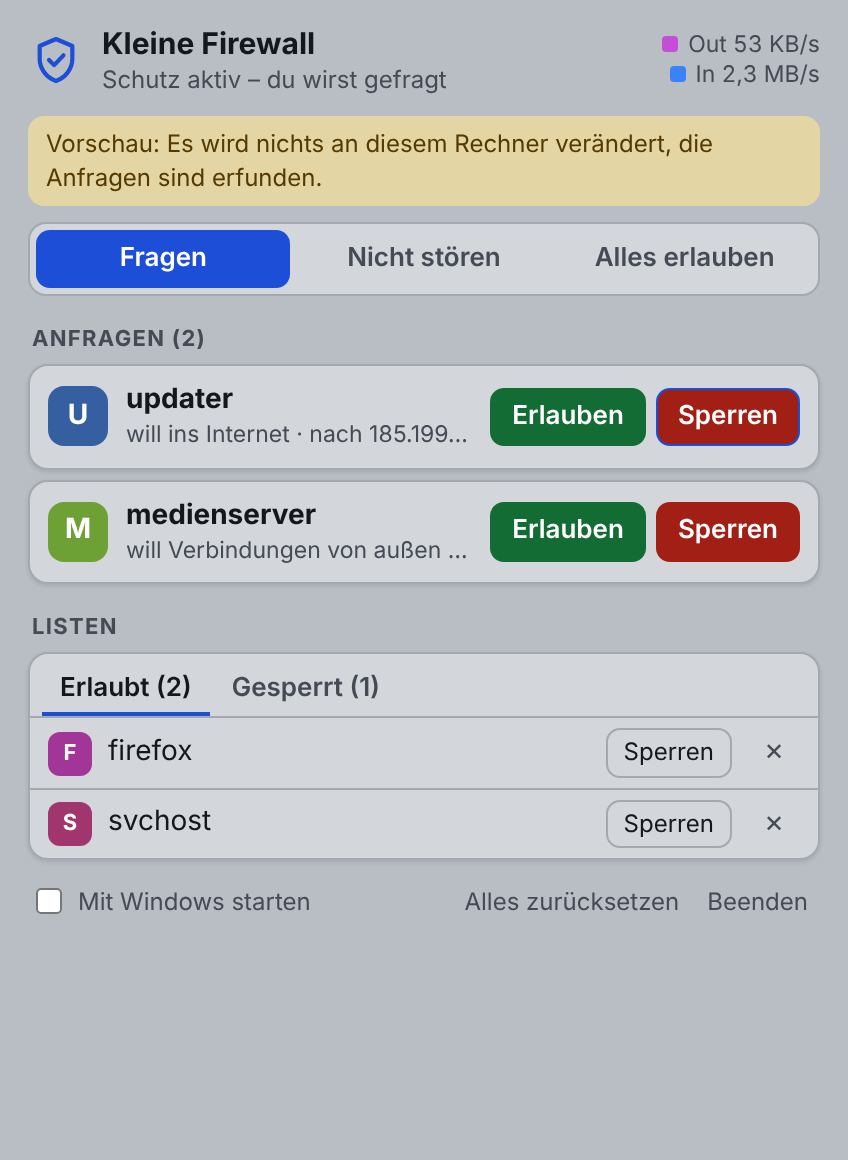
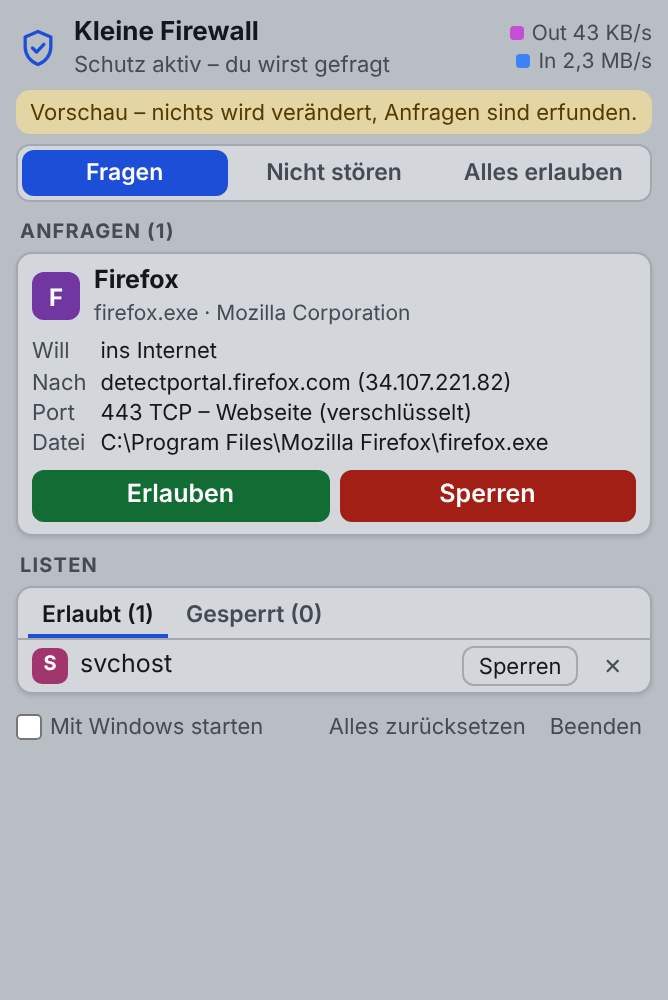
Kleineres Fenster, mehr Angaben in der Anfrage
Claude-Session: https://claude.ai/code/session_01V6giJq9DfFc1NtfWN4y38g

diff --git a/kleinefirewall_windows.py b/kleinefirewall_windows.py
@@ -17,6 +17,7 @@ import ntpath
 import os
 import platform
 import secrets
+import socket
 import string
 import subprocess
 import sys
@@ -184,6 +185,47 @@ class WinSystem:
         self.last_record = max(self.last_record, best[1])
         return list(reversed(best[2]))  # aelteste zuerst
 
+    def file_info(self, path):
+        """Hersteller und Beschreibung, wie sie in der Programmdatei hinterlegt sind."""
+        try:
+            v = ctypes.windll.version
+            size = v.GetFileVersionInfoSizeW(path, None)
+            if not size:
+                return {}
+            buf = ctypes.create_string_buffer(size)
+            if not v.GetFileVersionInfoW(path, 0, size, buf):
+                return {}
+            ptr, length = ctypes.c_void_p(), ctypes.c_uint()
+
+            def query(key):
+                ok = v.VerQueryValueW(buf, key, ctypes.byref(ptr), ctypes.byref(length))
+                return (ptr.value, length.value) if ok and ptr.value and length.value else (None, 0)
+
+            langs = []
+            addr, _ = query("\\VarFileInfo\\Translation")
+            if addr:
+                pair = (ctypes.c_ushort * 2).from_address(addr)
+                langs.append("%04x%04x" % (pair[0], pair[1]))
+            langs += ["040904b0", "040904e4", "040704b0", "000004b0"]
+            out = {}
+            for field, name in (("company", "CompanyName"), ("desc", "FileDescription")):
+                for lang in langs:
+                    addr, n = query(f"\\StringFileInfo\\{lang}\\{name}")
+                    if addr:
+                        text = ctypes.wstring_at(addr, n).split("\0")[0].strip()
+                        if text:
+                            out[field] = text[:80]
+                            break
+            return out
+        except Exception:
+            return {}
+
+    def host_name(self, addr):
+        try:
+            return socket.gethostbyaddr(addr)[0]
+        except (OSError, UnicodeError):
+            return ""
+
     # -- Autostart
     def autostart(self):
         return self.cmd(["schtasks", "/query", "/tn", TASK], check=False)[0] == 0
@@ -235,6 +277,14 @@ class DemoSystem:
     def set_autostart(self, on): self._auto = on
     def reset(self, paths): pass
 
+    def file_info(self, path):
+        return {"firefox.exe": {"company": "Mozilla Corporation", "desc": "Firefox"},
+                "spotify.exe": {"company": "Spotify Ltd", "desc": "Spotify"},
+                "medienserver.exe": {"company": "Beispiel GmbH", "desc": "Medienserver"}}.get(ntpath.basename(path).lower(), {})
+
+    def host_name(self, addr):
+        return {"34.107.221.82": "detectportal.firefox.com", "35.186.224.25": "ap.spotify.com"}.get(addr, "")
+
     def read_events(self):
         out = []
         while self.sent < len(self.SCRIPT) and time.time() - self.start >= self.SCRIPT[self.sent][0]:
@@ -253,6 +303,7 @@ class Guard:
         self.url = url
         self.lock = threading.RLock()
         self.pending = {}        # key -> Anfrage
+        self.hosts = {}          # IP-Adresse -> Name der Gegenstelle
         self.error = ""
         self.tray_error = ""
         self.net = None          # aktueller Datenverkehr fuer die Anzeige
@@ -336,13 +387,25 @@ class Guard:
             item = self.pending.get(key)
             if item is None:
                 item = self.pending[key] = {"path": e["path"], "name": nice_name(e["path"]), "dirs": [],
-                                            "count": 0, "first": time.time()}
+                                            "count": 0, "first": time.time(), **self.sys.file_info(e["path"])}
                 fresh = item["name"]
             if e["dir"] not in item["dirs"]:
                 item["dirs"].append(e["dir"])
                 fresh = item["name"]
-            item.update(count=item["count"] + 1, addr=e["addr"], port=e["port"], proto=e["proto"], dir=e["dir"])
+            item.update(count=item["count"] + 1, addr=e["addr"], port=e["port"], proto=e["proto"], dir=e["dir"],
+                        host=self.hosts.get(e["addr"], ""))
+            if e["addr"] and e["addr"] not in self.hosts:
+                self.hosts[e["addr"]] = ""
+                threading.Thread(target=self._lookup, args=(e["addr"],), daemon=True).start()
         return fresh
+
+    def _lookup(self, addr):
+        name = self.sys.host_name(addr)
+        with self.lock:
+            self.hosts[addr] = name
+            for item in self.pending.values():
+                if item.get("addr") == addr:
+                    item["host"] = name
 
     def watch(self):
         while not self.stop.wait(2):
@@ -382,67 +445,71 @@ PAGE = r"""<!doctype html>
 @media (prefers-color-scheme:dark){:root{--bg:#11141a;--card:#1a1f28;--text:#e9ecf2;--muted:#98a2b3;--line:#2b3240;
 --accent:#6ea0ff;--accentbg:#1c2a4a;--ok:#62d394;--okbg:#153324;--bad:#ff8f85;--badbg:#3a1b19;--warnbg:#3a2f12;--warn:#f2c661;--shadow:none}}
 *{box-sizing:border-box}
-body{margin:0;background:var(--bg);color:var(--text);font:14px/1.35 system-ui,-apple-system,"Segoe UI",sans-serif}
-main{max-width:420px;margin:0 auto;padding:12px 12px 16px}
-header{display:flex;align-items:center;gap:9px;margin-bottom:10px}
+body{margin:0;background:var(--bg);color:var(--text);font:12.5px/1.3 system-ui,-apple-system,"Segoe UI",sans-serif}
+main{max-width:340px;margin:0 auto;padding:8px}
+header{display:flex;align-items:center;gap:7px;margin-bottom:6px}
 header svg{flex:none}
-h1{font-size:15px;margin:0}
-#sub{color:var(--muted);font-size:12px}
-h2{font-size:11px;letter-spacing:.06em;text-transform:uppercase;color:var(--muted);margin:14px 2px 5px;font-weight:700}
-#net{font-size:11.5px;color:var(--muted);text-align:right;white-space:nowrap;font-variant-numeric:tabular-nums}
-#net i{display:inline-block;width:8px;height:8px;border-radius:2px;margin-right:5px}
+h1{font-size:13px;margin:0}
+#sub{color:var(--muted);font-size:11px}
+h2{font-size:10px;letter-spacing:.06em;text-transform:uppercase;color:var(--muted);margin:9px 2px 3px;font-weight:700}
+#net{font-size:10.5px;color:var(--muted);text-align:right;white-space:nowrap;font-variant-numeric:tabular-nums}
+#net i{display:inline-block;width:7px;height:7px;border-radius:2px;margin-right:4px}
 #net .o{background:#c44fd6}#net .i{background:#3b82f6}
-.card{background:var(--card);border:1px solid var(--line);border-radius:10px;box-shadow:var(--shadow)}
-button{font:inherit;cursor:pointer;border-radius:7px;border:1px solid var(--line);background:var(--card);color:var(--text);padding:4px 9px}
+.card{background:var(--card);border:1px solid var(--line);border-radius:8px;box-shadow:var(--shadow)}
+button{font:inherit;cursor:pointer;border-radius:6px;border:1px solid var(--line);background:var(--card);color:var(--text);padding:3px 8px}
 button:hover{border-color:var(--accent)}
 button:focus-visible{outline:2px solid var(--accent);outline-offset:1px}
 .btn-ok{background:var(--ok);border-color:var(--ok);color:#fff;font-weight:600}
 .btn-bad{background:var(--bad);border-color:var(--bad);color:#fff;font-weight:600}
 @media (prefers-color-scheme:dark){.btn-ok,.btn-bad{color:#10141a}}
-.btn-big{background:var(--accent);border-color:var(--accent);color:#fff;font-weight:600;padding:8px 16px}
-.link{border:0;background:none;color:var(--muted);padding:3px 6px;font-size:12px}
+.btn-big{background:var(--accent);border-color:var(--accent);color:#fff;font-weight:600;padding:6px 14px}
+.link{border:0;background:none;color:var(--muted);padding:2px 5px;font-size:11px}
 .link:hover{color:var(--text)}
-.modes{margin-top:8px;display:flex;background:var(--card);border:1px solid var(--line);border-radius:9px;padding:3px;gap:3px}
-.mode{flex:1;border:0;background:none;padding:6px 4px;font-weight:600;font-size:13px;color:var(--muted);white-space:nowrap}
+.modes{display:flex;background:var(--card);border:1px solid var(--line);border-radius:7px;padding:2px;gap:2px}
+.mode{flex:1;border:0;background:none;padding:4px 2px;font-weight:600;font-size:11.5px;color:var(--muted);white-space:nowrap}
 .mode.sel{background:var(--accent);color:#fff}
 @media (prefers-color-scheme:dark){.mode.sel{color:#10141a}}
-.req{display:flex;gap:9px;align-items:center;padding:8px 9px;margin-bottom:5px}
-.av{flex:none;width:30px;height:30px;border-radius:8px;color:#fff;font-weight:700;font-size:14px;display:grid;place-items:center}
+.req{padding:6px 7px;margin-bottom:4px}
+.top{display:flex;gap:7px;align-items:center}
+.av{flex:none;width:24px;height:24px;border-radius:6px;color:#fff;font-weight:700;font-size:12px;display:grid;place-items:center}
 .info{flex:1;min-width:0}
 .info>*{white-space:nowrap;overflow:hidden;text-overflow:ellipsis}
-.info b{font-size:14px}
-.info .path{font-size:11.5px;color:var(--muted)}
-.acts{display:flex;gap:5px;flex:none}
-.acts button{padding:5px 10px;font-size:13px}
-.empty{padding:10px;color:var(--muted);text-align:center;font-size:13px}
-.tabs{display:flex;gap:2px;padding:4px 6px 0}
-.tab{border:0;background:none;border-radius:0;padding:5px 9px;color:var(--muted);font-weight:600;font-size:13px}
+.info b{font-size:12.5px;display:block}
+.info .path{font-size:10.5px;color:var(--muted)}
+.facts{margin:5px 0 6px;font-size:11px;display:grid;grid-template-columns:auto 1fr;gap:1px 7px}
+.facts dt{color:var(--muted)}.facts dd{margin:0;overflow-wrap:anywhere}
+.acts{display:flex;gap:5px}
+.acts button{flex:1;padding:4px 8px}
+.empty{padding:7px;color:var(--muted);text-align:center;font-size:11.5px}
+.tabs{display:flex;gap:2px;padding:2px 5px 0}
+.tab{border:0;background:none;border-radius:0;padding:4px 7px;color:var(--muted);font-weight:600;font-size:11.5px}
 .tab.sel{color:var(--text);box-shadow:0 -2px 0 var(--accent) inset}
-#list{max-height:176px;overflow-y:auto}
-.row{display:flex;gap:8px;align-items:center;padding:5px 9px;border-top:1px solid var(--line)}
-.row .av{width:22px;height:22px;border-radius:6px;font-size:11px}
-.row button{font-size:12px;padding:3px 8px;flex:none}
-.banner{border-radius:8px;padding:6px 9px;margin-top:8px;font-size:12px;white-space:pre-wrap}
+#list{max-height:132px;overflow-y:auto}
+.row{display:flex;gap:6px;align-items:center;padding:3px 7px;border-top:1px solid var(--line)}
+.row .av{width:18px;height:18px;border-radius:5px;font-size:10px}
+.row button{font-size:11px;padding:2px 7px;flex:none}
+.banner{border-radius:7px;padding:4px 7px;margin:5px 0;font-size:11px;white-space:pre-wrap}
 .banner.warn{background:var(--warnbg);color:var(--warn)}
 .banner.err{background:var(--badbg);color:var(--bad)}
-.welcome{padding:16px;text-align:center}
-.welcome p{color:var(--muted);margin:8px 0 12px;font-size:13px}
-.foot{display:flex;gap:2px;align-items:center;margin-top:10px;color:var(--muted);font-size:12px}
-.foot label{display:flex;gap:5px;align-items:center;cursor:pointer;margin-right:auto}
-#toast{position:fixed;left:50%;bottom:12px;transform:translateX(-50%);width:max-content;max-width:92vw;padding:8px 12px;border-radius:8px;
-background:var(--bad);color:#fff;display:none;white-space:pre-wrap;font-size:13px}
+.welcome{padding:12px;text-align:center}
+.welcome p{color:var(--muted);margin:6px 0 10px;font-size:11.5px}
+.foot{display:flex;gap:2px;align-items:center;margin-top:7px;color:var(--muted);font-size:11px}
+.foot label{display:flex;gap:4px;align-items:center;cursor:pointer;margin-right:auto}
+.foot input{margin:0}
+#toast{position:fixed;left:50%;bottom:8px;transform:translateX(-50%);width:max-content;max-width:94vw;padding:6px 10px;border-radius:7px;
+background:var(--bad);color:#fff;display:none;white-space:pre-wrap;font-size:11.5px}
 </style></head><body><main>
 <header>
-  <svg width="28" height="28" viewBox="0 0 24 24" fill="none" stroke="var(--accent)" stroke-width="1.8" stroke-linejoin="round">
+  <svg width="22" height="22" viewBox="0 0 24 24" fill="none" stroke="var(--accent)" stroke-width="1.8" stroke-linejoin="round">
     <path d="M12 3l7 3v5.5c0 4.3-2.9 8-7 9.5-4.1-1.500-7-5.200-7-9.500V6l7-3z"/><path d="M9 12l2.200 2.200L15.200 10" stroke-linecap="round"/></svg>
   <div style="flex:1;min-width:0"><h1>Kleine Firewall</h1><div id="sub">…</div></div>
   <div id="net" title="Datenverkehr gerade: Out = hinaus, In = herein" hidden><div><i class="o"></i><span id="nout"></span></div><div><i class="i"></i><span id="nin"></span></div></div>
 </header>
-<div id="demo" class="banner warn" hidden>Vorschau: Es wird nichts an diesem Rechner verändert, die Anfragen sind erfunden.</div>
+<div id="demo" class="banner warn" hidden>Vorschau – nichts wird verändert, Anfragen sind erfunden.</div>
 <div id="error" class="banner err" hidden></div>
 
 <div id="welcome" class="card welcome" hidden>
-  <b style="font-size:15px">Schutz einschalten?</b>
+  <b style="font-size:13px">Schutz einschalten?</b>
   <p>Ab dann darf kein Programm mehr von selbst ins Internet. Sobald eines es versucht, wirst du hier gefragt
      und entscheidest mit einem Klick. Windows-Dienste für Updates und Uhrzeit sind vorab erlaubt.</p>
   <button class="btn-big" id="start">Schutz einschalten</button>
@@ -496,14 +563,17 @@ function avatar(name){ let h = 0; for(const c of name) h = (h * 31 + c.charCodeA
 function btn(text, cls, fn, title){ const b = el("button", cls, text); b.onclick = fn; if(title) b.title = title; return b; }
 function wants(p){
   const out = p.dirs.includes("out"), inn = p.dirs.includes("in");
-  return out && inn ? "will raus und Verbindungen annehmen"
-       : inn ? "will Verbindungen von außen annehmen" : "will ins Internet";
+  return out && inn ? "ins Internet und Verbindungen annehmen"
+       : inn ? "Verbindungen von außen annehmen" : "ins Internet";
 }
-function detail(p){
-  const bits = [];
-  if(p.addr) bits.push((p.dir == "in" ? "von " : "nach ") + p.addr);
-  if(p.count > 1) bits.push(p.count + "×");
-  return bits.join(" · ");
+const PORTS = {"80": "Webseite", "443": "Webseite (verschlüsselt)", "53": "Namensauflösung", "123": "Uhrzeit",
+  "25": "E-Mail-Versand", "465": "E-Mail-Versand", "587": "E-Mail-Versand", "993": "E-Mail-Abruf", "995": "E-Mail-Abruf",
+  "143": "E-Mail-Abruf", "22": "Fernzugriff (SSH)", "3389": "Fernsteuerung", "445": "Dateifreigabe", "21": "Dateiübertragung"};
+function fileOf(path){ return path.split(/[\\/]/).pop(); }
+function where(p){
+  if(!p.addr) return "";
+  const home = /^(10\.|192\.168\.|172\.(1[6-9]|2\d|3[01])\.|169\.254\.|f[cde])/i.test(p.addr);
+  return p.host ? p.host + " (" + p.addr + ")" : p.addr + (home ? " – Gerät im eigenen Netz" : "");
 }
 
 function show(s){
@@ -513,7 +583,7 @@ function show(s){
     const id = p.path + p.dirs.join();
     if(!known.has(id)){ known.add(id);
       if(!first && s.mode == "ask" && document.hidden && window.Notification && Notification.permission == "granted"){
-        const n = new Notification(p.name + " " + wants(p), {body: "Klicken, um zu entscheiden.", tag: p.path});
+        const n = new Notification(p.name + " will " + wants(p), {body: "Klicken, um zu entscheiden.", tag: p.path});
         n.onclick = () => { window.focus(); n.close(); };
       }}
   }
@@ -536,13 +606,19 @@ function show(s){
   if(!s.pending.length) reqs.append(el("div", "card empty",
     s.mode == "allow" ? "In diesem Modus wird nicht gefragt." : "Alles ruhig."));
   for(const p of s.pending){
-    const c = el("div", "card req"), info = el("div", "info");
-    info.append(el("b", "", p.name), el("div", "path", [wants(p), detail(p)].filter(Boolean).join(" · ")));
-    c.title = p.path;
+    const c = el("div", "card req"), top = el("div", "top"), info = el("div", "info");
+    info.append(el("b", "", p.desc || p.name), el("div", "path", [fileOf(p.path), p.company].filter(Boolean).join(" · ")));
+    top.append(avatar(p.desc || p.name), info);
+    const facts = el("dl", "facts");
+    const fact = (k, v) => { if(v) facts.append(el("dt", "", k), el("dd", "", v)); };
+    fact("Will", wants(p) + (p.count > 1 ? " (" + p.count + " Versuche)" : ""));
+    fact(p.dir == "in" ? "Von" : "Nach", where(p));
+    fact("Port", p.port ? p.port + (p.proto ? " " + p.proto : "") + (PORTS[p.port] ? " – " + PORTS[p.port] : "") : "");
+    fact("Datei", p.path);
     const acts = el("div", "acts");
     acts.append(btn("Erlauben", "btn-ok", () => act("decide", {path: p.path, action: "allow"})),
                 btn("Sperren", "btn-bad", () => act("decide", {path: p.path, action: "block"})));
-    c.append(avatar(p.name), info, acts); reqs.append(c);
+    c.append(top, facts, acts); reqs.append(c);
   }
 
   for(const t of document.querySelectorAll(".tab")){
@@ -881,7 +957,7 @@ def open_ui(url):
         edge = os.path.join(base or "", "Microsoft", "Edge", "Application", "msedge.exe")
         if base and os.path.exists(edge):
             try:
-                subprocess.Popen([edge, f"--app={url}", "--window-size=440,620"])
+                subprocess.Popen([edge, f"--app={url}", "--window-size=350,540"])
                 return
             except OSError:
                 break
